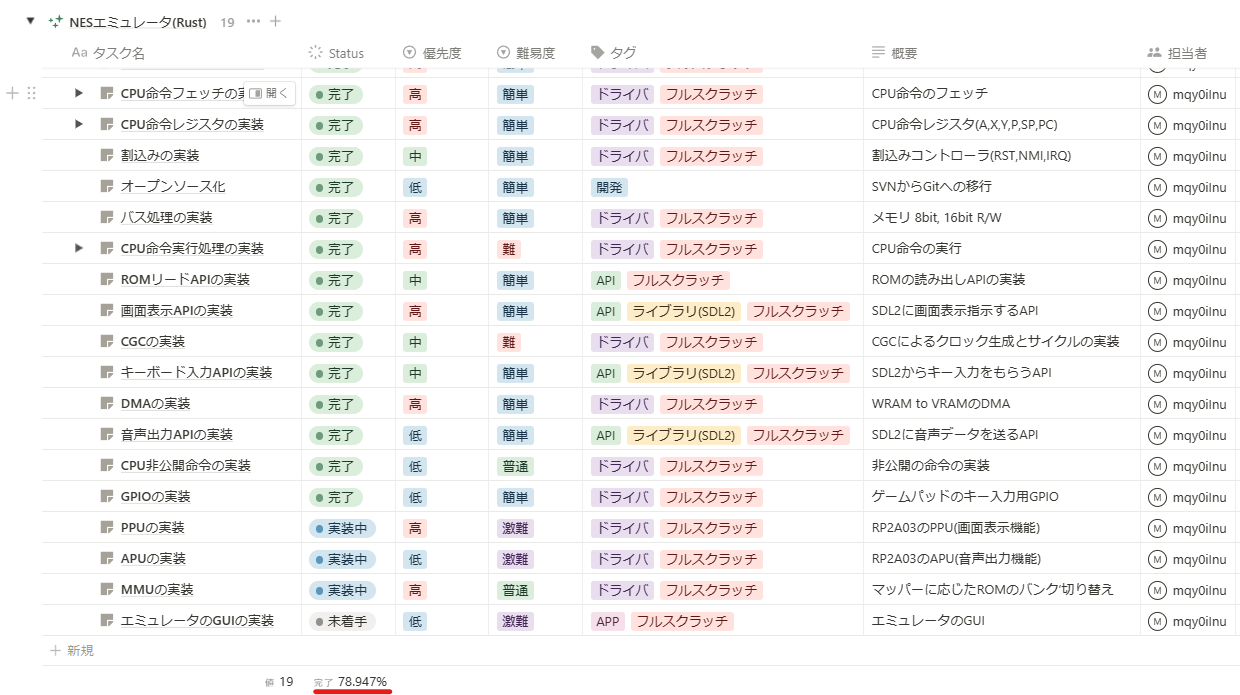
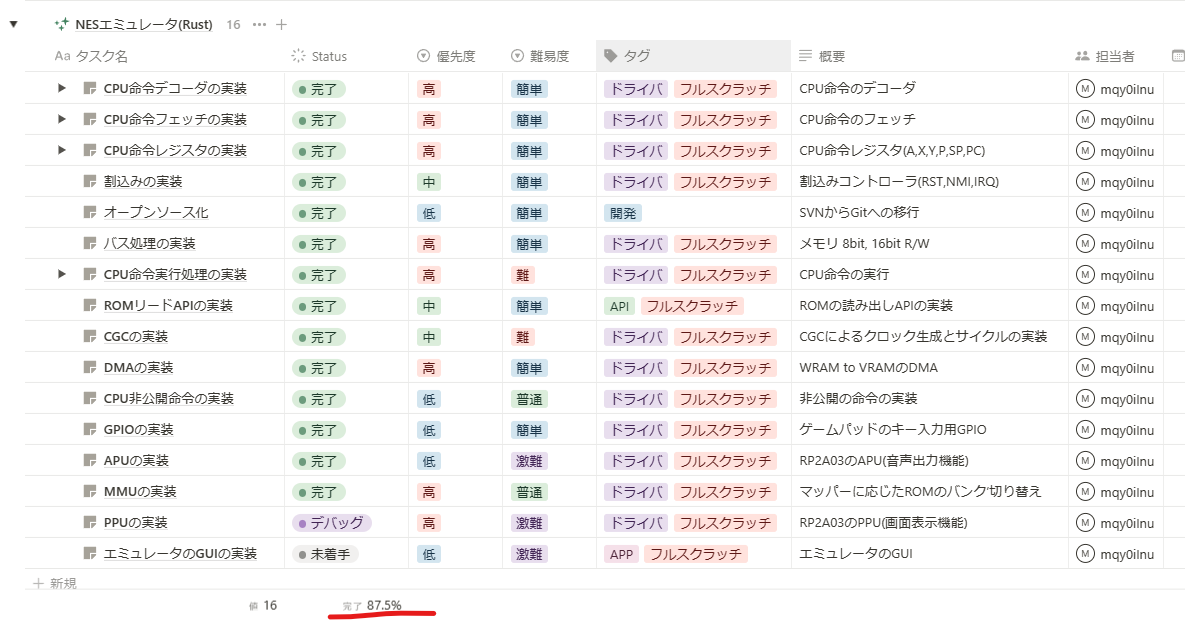
APU完成

diff --git a/src/apu.rs b/src/apu.rs
@@ -4,7 +4,7 @@ use sdl2::audio::{AudioCallback, AudioDevice, AudioSpecDesired};
 use std::sync::mpsc::{channel, Receiver, Sender};
 use std::time::Duration;
 
-const CPU_CLOCK: f32 = 1_789_772.5; // 1.789 MHz
+const CPU_CLOCK: f32 = 1_789_772.5;  // 1.789 MHz
 const _CLOCK_DIV: usize = 7457;      // 7457分周
 
 const _DUTY_12P5: f32 = 0.125;       // Duty 12.5％
@@ -19,16 +19,40 @@ const _CH2 :u8 = 0b0000_0010;
 const _CH3 :u8 = 0b0000_0100;
 const _CH4 :u8 = 0b0000_1000;
 
+bitflags! {
+    pub struct StatusRegister: u8 {
+        const ENABLE_1CH       = 0b0000_0001;
+        const ENABLE_2CH       = 0b0000_0010;
+        const ENABLE_3CH       = 0b0000_0100;
+        const ENABLE_4CH       = 0b0000_1000;
+        const ENABLE_5CH       = 0b0001_0000;
+
+        const ENABLE_FRAME_IRQ = 0b0100_0000;
+        const ENABLE_DMC_IRQ   = 0b1000_0000;
+    }
+
+    pub struct FrameCounter: u8 {
+        const DISABLE_IRQ    = 0b0100_0000;
+        const SEQUENCER_MODE = 0b1000_0000;
+    }
+}
+
 lazy_static! {
-    pub static ref  NOISE_TBL: Vec<u16> = vec![
-        0x0002, 0x0004, 0x0008, 0x0010, 0x0020, 0x0030, 0x0040, 0x0050, 0x0065, 0x007F, 0x00BE,
-        0x00FE, 0x017D, 0x01FC, 0x03F9, 0x07F2,
-    ];
+    pub static ref NOISE_TBL: Vec<f32> = {
+        let noise_tbl: Vec<u16> = vec![
+            0x0002, 0x0004, 0x0008, 0x0010, 0x0020,
+            0x0030, 0x0040, 0x0050, 0x0065, 0x007F,
+            0x00BE, 0x00FE, 0x017D, 0x01FC, 0x03F9, 0x07F2,
+        ];
+
+        noise_tbl.iter().map(|&x| x as f32).collect()
+    };
 
     pub static ref  LENGTH_COUNTER_TBL: Vec<u8> = vec![
-            0x05, 0x7F, 0x0A, 0x01, 0x14, 0x02, 0x28, 0x03, 0x50, 0x04, 0x1E, 0x05, 0x07, 0x06, 0x0D,
-            0x07, 0x06, 0x08, 0x0C, 0x09, 0x18, 0x0A, 0x30, 0x0B, 0x60, 0x0C, 0x24, 0x0D, 0x08, 0x0E,
-            0x10, 0x0F,];
+        0x05, 0x7F, 0x0A, 0x01, 0x14, 0x02, 0x28, 0x03,
+        0x50, 0x04, 0x1E, 0x05, 0x07, 0x06, 0x0D, 0x07,
+        0x06, 0x08, 0x0C, 0x09, 0x18, 0x0A, 0x30, 0x0B,
+        0x60, 0x0C, 0x24, 0x0D, 0x08, 0x0E, 0x10, 0x0F,];
 }
 
 #[allow(dead_code)]
@@ -188,7 +212,7 @@ impl APU {
     pub fn write4ch(&mut self, addr: u16, value: u8) {
         self.ch4_register.write(addr, value);
 
-        let hz = CPU_CLOCK / NOISE_TBL[self.ch4_register.frequency as usize] as f32;
+        let hz = CPU_CLOCK / NOISE_TBL[self.ch4_register.frequency as usize];
         let is_long = match self.ch4_register.kind {
             NoiseKind::Long => true,
             _ => false,
@@ -201,6 +225,14 @@ impl APU {
                 is_long: is_long,
                 volume: volume,
             }))
+            .unwrap();
+
+        self.ch4_sender
+            .send(NoiseEvent::Envelope(Envelope::new(
+                self.ch4_register.volume,
+                self.ch4_register.envelope_flag,
+                !self.ch4_register.key_off_counter_flag,
+            )))
             .unwrap();
 
         self.ch4_sender
@@ -734,10 +766,10 @@ impl SquareNote {
 
     fn duty(&self) -> f32 {
         match self.duty {
-            0x00 => 0.125,
-            0x01 => 0.25,
-            0x02 => 0.50,
-            0x03 => 0.75,
+            0x00 => _DUTY_12P5,
+            0x01 => _DUTY_25,
+            0x02 => _DUTY_50,
+            0x03 => _DUTY_75,
             _ => panic!("can't be",),
         }
     }
@@ -1015,7 +1047,9 @@ impl NoiseRandom {
     }
 
     pub fn next(&mut self) -> bool {
-        // 15ビットシフトレジスタにはリセット時に1をセットしておく必要があります。 タイマによってシフトレジスタが励起されるたびに1ビット右シフトし、 ビット14には、ショートモード時にはビット0とビット6のEORを、 ロングモード時にはビット0とビット1のEORを入れます。
+        // 15ビットシフトレジスタにはリセット時に1をセットしておく必要があります。
+        // タイマによってシフトレジスタが励起されるたびに1ビット右シフトし、
+        // ビット14には、ショートモード時にはビット0とビット6のEORを、
         // ロングモード時にはビット0とビット1のEORを入れます。
         let b = (self.value & 0x01) ^ ((self.value >> self.bit) & 0x01);
         self.value = self.value >> 1;
@@ -1061,13 +1095,6 @@ fn init_noise(sdl_context: &sdl2::Sdl) -> (AudioDevice<NoiseWave>, Sender<NoiseE
     (device, sender)
 }
 
-bitflags! {
-    pub struct FrameCounter: u8 {
-        const DISABLE_IRQ    = 0b0100_0000;
-        const SEQUENCER_MODE = 0b1000_0000;
-    }
-}
-
 impl FrameCounter {
     pub fn new() -> Self {
         FrameCounter::from_bits_truncate(0b1100_0000)
@@ -1081,25 +1108,8 @@ impl FrameCounter {
         }
     }
 
-    pub fn irq(&self) -> bool {
-        !self.contains(FrameCounter::DISABLE_IRQ)
-    }
-
     pub fn update(&mut self, data: u8) {
         *self.0.bits_mut() = data;
-    }
-}
-
-bitflags! {
-    pub struct StatusRegister: u8 {
-        const ENABLE_1CH       = 0b0000_0001;
-        const ENABLE_2CH       = 0b0000_0010;
-        const ENABLE_3CH       = 0b0000_0100;
-        const ENABLE_4CH       = 0b0000_1000;
-        const ENABLE_5CH       = 0b0001_0000;
-
-        const ENABLE_FRAME_IRQ = 0b0100_0000;
-        const ENABLE_DMC_IRQ   = 0b1000_0000;
     }
 }
 

diff --git a/src/common.rs b/src/common.rs
@@ -112,12 +112,12 @@ pub const _PRG_ROM: u8 = 2;
 // pub const _NES_ROM_PATH: &str = "rom/nes/mapper_0/popeye.nes";
 // pub const _NES_ROM_PATH: &str = "rom/nes/mapper_0/ikki.nes";
 // pub const _NES_ROM_PATH: &str = "rom/nes/mapper_0/sky_destroyer.nes";
-pub const _NES_ROM_PATH: &str = "rom/nes/mapper_0/Super_Mario_Bros.nes";
+// pub const _NES_ROM_PATH: &str = "rom/nes/mapper_0/Super_Mario_Bros.nes";
 // pub const _NES_ROM_PATH: &str = "rom/nes/mapper_0/tower_of_druaga.nes";
 // pub const _NES_ROM_PATH: &str = "rom/nes/mapper_0/xevious.nes";
 
 // [MapperMMC 2]
-// pub const _NES_ROM_PATH: &str = "rom/nes/Dragon Quest 2 (J).nes";
+pub const _NES_ROM_PATH: &str = "rom/nes/Dragon Quest 2 (J).nes";
 // pub const _NES_ROM_PATH: &str = "rom/nes/Makaimura (J).nes";
 // pub const _NES_ROM_PATH: &str = "rom/nes/Rockman (J).nes";
 

diff --git a/src/main.rs b/src/main.rs
@@ -56,7 +56,7 @@ fn main() {
     let sdl_context = sdl2::init().unwrap();
     let video_subsystem = sdl_context.video().unwrap();
     let window = video_subsystem
-        .window("Rust NES Emulator", (256.0 * 2.0) as u32, (240.0 * 2.0) as u32)
+        .window("rscom -Rust NES Emulator-", (256.0 * 2.0) as u32, (240.0 * 2.0) as u32)
         .position_centered()
         .build()
         .unwrap();
